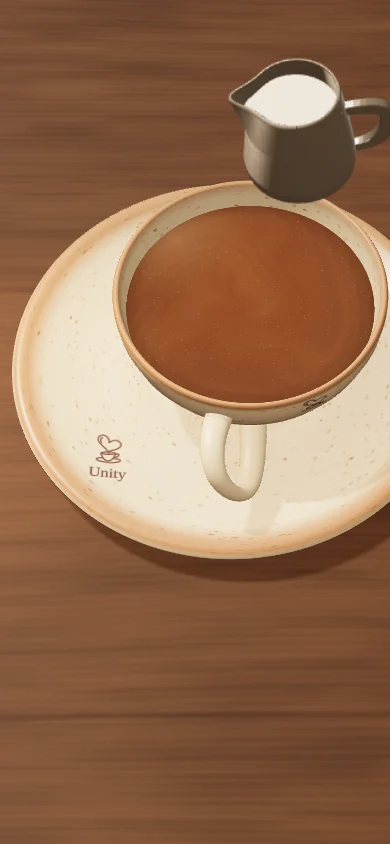
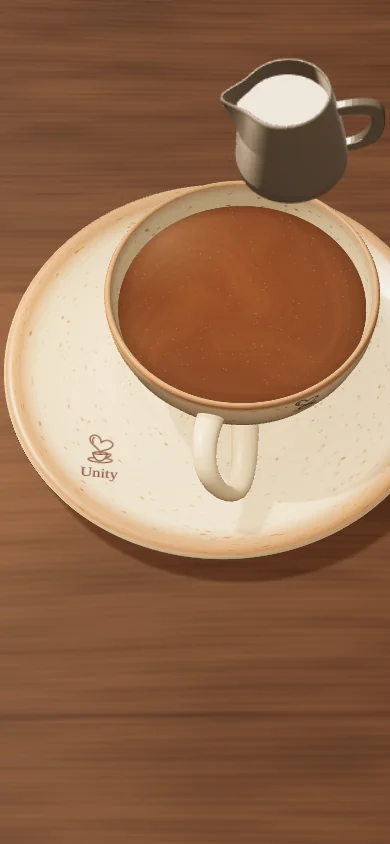
Give the mug rim space on narrow portrait screens

diff --git a/test/latte-cup-model.test.js b/test/latte-cup-model.test.js
@@ -1,6 +1,7 @@
 import test from 'node:test';
 import assert from 'node:assert/strict';
-import { LatheGeometry, Vector2 } from '../public/vendor/three/three.module.js';
+import { LatheGeometry, PerspectiveCamera, Vector2, Vector3 } from '../public/vendor/three/three.module.js';
+import { CUP_PROFILE } from '../public/latte-art/foam-geometry.js';
 import {
   createHandleGeometry, handleProfile, createMilkStreamGeometry, createSpoonStemGeometry,
   FOAM_PLANE, PITCHER_LIP, sampleFallingMilk, shapePitcherSpout, tableCameraFraming, updateMilkStream,
@@ -82,6 +83,25 @@ test('passing through the old portrait boundary keeps table framing continuous',
   assert.ok(Math.abs(before.elevation - after.elevation) < .2);
   assert.ok(Math.abs(before.shiftY - after.shiftY) < .005);
   assert.deepEqual(tableCameraFraming('photo', .6), tableCameraFraming('photo', 1));
+});
+
+test('the cup rim has breathing room on narrow portrait screens without trimming the painting surface', () => {
+  for (const [width, height] of [[320, 568], [375, 812], [390, 844], [414, 896]]) {
+    const aspect = width / height;
+    const framing = tableCameraFraming('pour', aspect);
+    const camera = new PerspectiveCamera(28, aspect, .1, 80);
+    camera.setViewOffset(width, height, width * framing.shiftX, height * framing.shiftY, width, height);
+    camera.position.copy(framing.eye);
+    camera.lookAt(framing.targetX, framing.targetY, framing.targetZ);
+    camera.updateMatrixWorld();
+    for (const [radius, level] of CUP_PROFILE) {
+      for (let sample = 0; sample < 48; sample++) {
+        const angle = sample * Math.PI / 24;
+        const { x } = new Vector3(radius * Math.cos(angle), level, radius * Math.sin(angle)).project(camera);
+        assert.ok(Math.abs(x) * width / 2 < width / 2 - 6, `rim meets the edge at ${width}px`);
+      }
+    }
+  }
 });
 
 test('the milk stream starts at the flared pitcher lip with an unchanged base', () => {

diff --git a/public/latte-art/fallback-cup.js b/public/latte-art/fallback-cup.js
@@ -147,7 +147,7 @@ export function createCanvasFallback(mainCanvas, canvas, foam, {
     const portrait = view === 'draw' || view === 'pour'
       ? 1 - widthBlend ** 2 * (3 - 2 * widthBlend) : 0;
     return {
-      x: w * (view === 'photo' ? .532 : .5 + .142 * portrait),
+      x: w * (view === 'photo' ? .532 : .5 + .121 * portrait),
       y: h * (view === 'photo' ? .439 : .47 - .108 * portrait),
       r: Math.min(w * (view === 'photo' ? .277 : .34 - .022 * portrait), h * .31),
     };

diff --git a/public/latte-art/style.css b/public/latte-art/style.css
@@ -359,7 +359,7 @@ dialog::backdrop { background: rgba(10,7,5,.82); backdrop-filter: blur(8px); }
 @media (max-width: 600px) and (orientation: portrait) {
   #studio[data-stage="pour"] #tip {
     left: max(14px, env(safe-area-inset-left));
-    top: calc(70px + env(safe-area-inset-top));
+    top: calc(66px + env(safe-area-inset-top));
     max-width: min(55vw, 230px);
     border-radius: 14px;
     text-align: left;

diff --git a/public/latte-art/foam-geometry.js b/public/latte-art/foam-geometry.js
@@ -35,7 +35,7 @@ export function tableCameraFraming(view, aspect) {
     distance, elevation, targetY, targetZ,
     targetX: photo ? -.18 : blend(.18, .02),
     eye: { x: 0, y: targetY + distance * Math.sin(angle), z: targetZ + distance * Math.cos(angle) },
-    shiftX: served ? 0 : -.147 * portrait,
+    shiftX: served ? 0 : -.126 * portrait,
     shiftY: served ? 0 : .095 * portrait,
   };
 }
